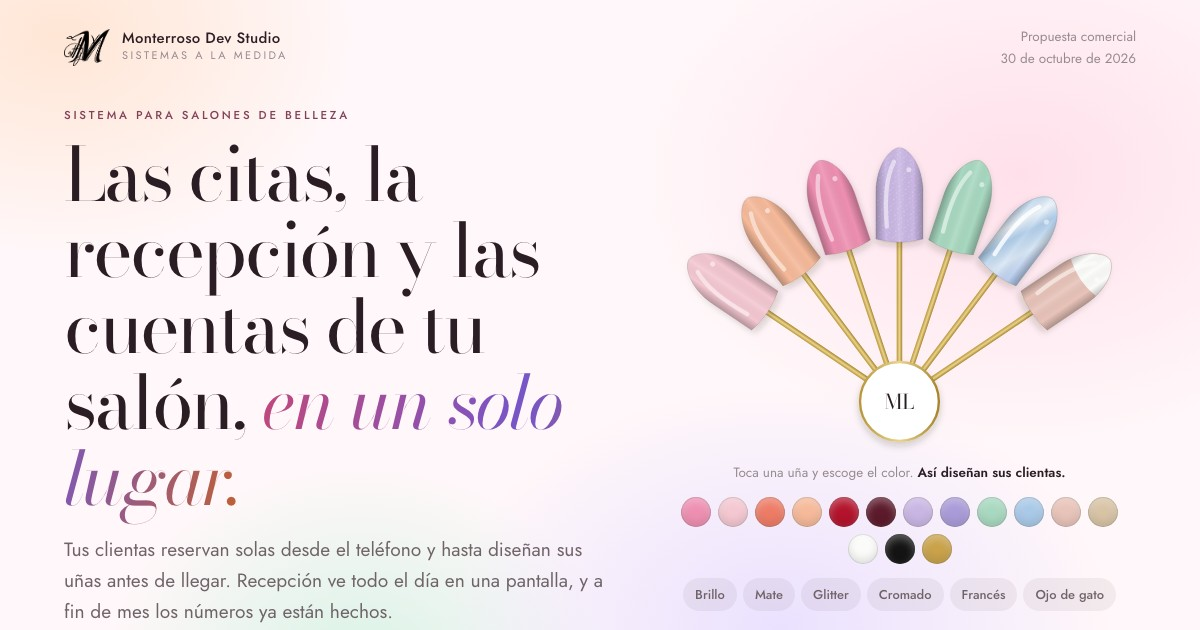
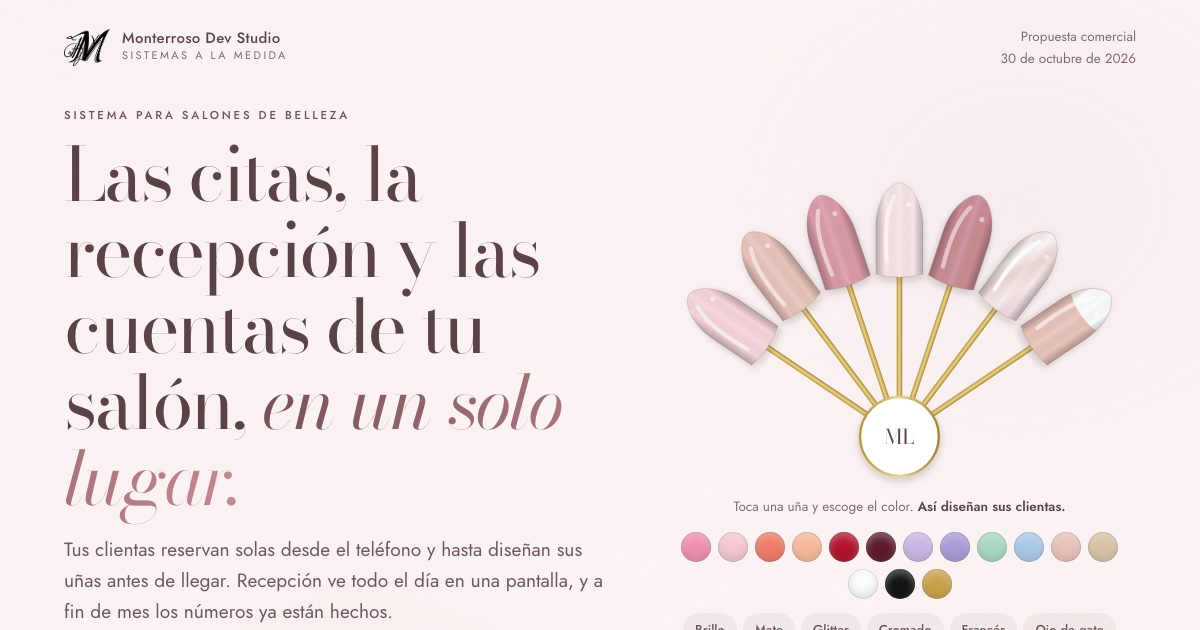
Propuesta en un solo tono rosa empolvado y letra más suave

diff --git a/Propuesta-Salon.html b/Propuesta-Salon.html
@@ -4,7 +4,7 @@
 <meta charset="utf-8">
 <meta name="viewport" content="width=device-width, initial-scale=1, viewport-fit=cover">
 <meta name="description" content="Reservas en línea, estudio de diseño de uñas, recepción en vivo y tarjeta de puntos en Apple y Google Wallet.">
-<meta name="theme-color" content="#FAF7F2">
+<meta name="theme-color" content="#FBF3F3">
 <meta name="robots" content="noindex">
 <meta property="og:type" content="website">
 <meta property="og:title" content="Sistema para salones de belleza · Monterroso Dev Studio">
@@ -24,7 +24,7 @@
 <title>Propuesta · Sistema para salón</title>
 <style>
 :root { --ease: cubic-bezier(0.23, 1, 0.32, 1); --r: 24px; --gutter: 20px; --sombra: 0 1px 2px rgba(40,26,20,.04), 0 12px 36px rgba(40,26,20,.07);
-  --t1: #FFE3EC; --t2: #ECE4FF; --t3: #DDF5E9; --t4: #FFE9DA; --i1: #C2477A; --i2: #7656C9; --i3: #2F8A62; --i4: #C2602F; }
+  --t1: #F6ECEE; --t2: #F9F2F3; --t3: #F4E7E9; --t4: #F8EFF0; --i1: #755055; --i2: #755055; --i3: #755055; --i4: #755055; }
 .sec.t1, .bloque.t1, .hito:nth-child(1), .dolor:nth-child(1), .paq.extra:nth-child(2) { --ink: var(--i1); }
 .sec.t2, .bloque.t2, .hito:nth-child(2), .dolor:nth-child(2) { --ink: var(--i2); }
 .sec.t3, .bloque.t3, .hito:nth-child(3), .dolor:nth-child(3), .paq.extra:nth-child(1) { --ink: var(--i3); }
@@ -40,7 +40,7 @@ h1, h2, h3, p { margin: 0; }
 b, strong { font-weight: 600; }
 .serif, h1, h2, h3 { font-family: var(--f-titulo); font-weight: 400; letter-spacing: -.015em; line-height: 1.06; }
 h1 em, h2 em, h3 em, .serif em { font-style: italic; color: var(--ink, var(--acento-texto)); }
-h1 em { background: linear-gradient(100deg, var(--i1), var(--i2) 55%, var(--i4)); -webkit-background-clip: text; background-clip: text; color: transparent; padding-right: .08em; }
+h1 em { background: linear-gradient(100deg, var(--i1), var(--acento)); -webkit-background-clip: text; background-clip: text; color: transparent; padding-right: .08em; }
 .eyebrow { font: 500 11.5px/1.2 var(--f-texto); letter-spacing: .24em; text-transform: uppercase; color: var(--acento-texto); margin-bottom: 14px; }
 .tx2 { color: var(--tinta2); } .tenue { color: var(--tenue); } .small { font-size: 13.5px; }
 .cont { max-width: 1160px; margin: 0 auto; padding: 0 var(--gutter); }
@@ -57,7 +57,7 @@ h3 { font-size: 24px; }
 .chip { display: inline-flex; align-items: center; gap: 6px; padding: 5px 13px; border-radius: 999px; background: var(--acento-suave); color: var(--acento-texto); font-size: 12.5px; font-weight: 600; letter-spacing: .02em; }
 .btn { display: inline-flex; align-items: center; justify-content: center; gap: 10px; min-height: 52px; padding: 0 26px; border-radius: 999px; font: 600 15.5px var(--f-texto); letter-spacing: .01em; text-decoration: none; border: 0; cursor: pointer; transition: transform .16s var(--ease), background-color .3s var(--ease), color .3s var(--ease); }
 .btn:active { transform: scale(.97); }
-.btn-a { background: linear-gradient(135deg, var(--acento), color-mix(in srgb, var(--acento) 62%, var(--i2))); color: var(--acento-sobre); }
+.btn-a { background: linear-gradient(135deg, var(--acento), color-mix(in srgb, var(--acento) 72%, #fff)); color: var(--acento-sobre); }
 .btn-p { background: var(--oscuro); color: var(--fondo); }
 .btn-l { background: transparent; color: inherit; box-shadow: inset 0 0 0 1px color-mix(in srgb, currentColor 30%, transparent); }
 @media (hover: hover) and (pointer: fine) { .btn-a:hover { background: color-mix(in srgb, var(--acento) 86%, #000); } .btn-p:hover { background: color-mix(in srgb, var(--oscuro) 85%, var(--acento)); } }
@@ -231,8 +231,8 @@ h3 { font-size: 24px; }
 .cable i { position: absolute; top: -4px; left: 0; width: 10px; height: 10px; border-radius: 50%; background: var(--acento); box-shadow: 0 0 0 6px color-mix(in srgb, var(--acento) 25%, transparent); animation: cable 2.6s var(--ease) infinite; }
 @keyframes cable { 0% { left: 0; opacity: 0; } 15% { opacity: 1; } 85% { opacity: 1; } 100% { left: 100%; opacity: 0; } }
 .cable.pulso i { animation-duration: .9s; }
-.en-vivo { position: absolute; left: 50%; top: -16px; transform: translateX(-50%); z-index: 4; display: inline-flex; gap: 8px; align-items: center; padding: 6px 14px; border-radius: 999px; background: var(--tarjeta); box-shadow: var(--sombra); font-size: 12px; font-weight: 600; color: #3F7D5C; }
-.en-vivo::before { content: ""; width: 8px; height: 8px; border-radius: 50%; background: #3F7D5C; animation: late 1.6s var(--ease) infinite; }
+.en-vivo { position: absolute; left: 50%; top: -16px; transform: translateX(-50%); z-index: 4; display: inline-flex; gap: 8px; align-items: center; padding: 6px 14px; border-radius: 999px; background: var(--tarjeta); box-shadow: var(--sombra); font-size: 12px; font-weight: 600; color: var(--acento-texto); }
+.en-vivo::before { content: ""; width: 8px; height: 8px; border-radius: 50%; background: var(--acento); animation: late 1.6s var(--ease) infinite; }
 @keyframes late { 50% { opacity: .3; } }
 .noti { position: absolute; left: 50%; top: 12px; z-index: 5; width: min(92%, 380px); transform: translate(-50%, -20px); opacity: 0; transition: opacity .4s var(--ease), transform .5s var(--ease); display: flex; gap: 10px; align-items: center; padding: 12px 14px; border-radius: 18px; background: rgba(255,255,255,.94); backdrop-filter: blur(16px); -webkit-backdrop-filter: blur(16px); box-shadow: 0 14px 34px rgba(0,0,0,.18); pointer-events: none; color: #1d1d1f; }
 .noti.on { opacity: 1; transform: translate(-50%, 0); }
@@ -249,7 +249,7 @@ th, td { padding: 16px 18px; text-align: left; border-bottom: 1px solid var(--li
 thead th { font-size: 11.5px; letter-spacing: .14em; text-transform: uppercase; color: var(--tenue); font-weight: 500; }
 th.nos, td.nos { background: var(--t1); font-weight: 600; color: var(--tinta); }
 tbody th { font-weight: 500; color: var(--tinta2); }
-.si { color: #3F7D5C; font-weight: 600; } .no { color: #B23A3A; }
+.si { color: var(--acento-texto); font-weight: 600; } .no { color: var(--tenue); }
 .nota { font-size: 12.5px; color: var(--tenue); margin-top: 12px; }
 
 /* calculadora */
@@ -296,7 +296,7 @@ input[type=range] { width: 100%; accent-color: var(--acento-texto); height: 28px
 .sw input { position: absolute; inset: 0; opacity: 0; margin: 0; cursor: pointer; width: 100%; height: 100%; }
 .sw span { position: absolute; inset: 0; border-radius: 99px; background: color-mix(in srgb, var(--tinta) 16%, transparent); transition: background-color .25s var(--ease); pointer-events: none; }
 .sw span::after { content: ""; position: absolute; top: 2px; left: 2px; width: 26px; height: 26px; border-radius: 50%; background: #fff; box-shadow: 0 2px 6px rgba(0,0,0,.2); transition: transform .25s var(--ease); }
-.sw input:checked + span { background: #3F7D5C; } .sw input:checked + span::after { transform: translateX(20px); }
+.sw input:checked + span { background: var(--acento-texto); } .sw input:checked + span::after { transform: translateX(20px); }
 .sw input:disabled + span { opacity: .6; } .sw input:focus-visible + span { outline: 2px solid var(--acento); outline-offset: 2px; }
 .segp { display: grid; grid-template-columns: repeat(3, 1fr); gap: 3px; padding: 4px; border-radius: 16px; background: rgba(255,255,255,.55); }
 .segp button { border: 0; background: transparent; padding: 11px 6px; border-radius: 12px; font: 600 15px var(--f-texto); color: var(--tinta2); cursor: pointer; transition: background-color .2s var(--ease), color .2s var(--ease), transform .16s var(--ease); }
@@ -406,17 +406,20 @@ function comboHTML() {
 
 /* ---------- paletas pastel ---------- */
 const mezcla = (a, b, k) => { const h = x => [1, 3, 5].map(i => parseInt(x.slice(i, i + 2), 16)); const A = h(a), B = h(b); return "#" + A.map((v, i) => Math.round(v + (B[i] - v) * k).toString(16).padStart(2, "0")).join(""); };
-function paleta(nombre, fondo, acento, nude, tinta, t, i) {
-  return { nombre, i: i || ["#C2477A", "#7656C9", "#2F8A62", "#C2602F"], c: { fondo, fondo2: mezcla(fondo, "#000000", .045), tarjeta: "#FFFFFF", tinta, tinta2: mezcla(tinta, fondo, .32), tenue: mezcla(tinta, fondo, .5), linea: mezcla(fondo, "#000000", .1), acento, acentoTexto: mezcla(acento, "#000000", .42), acentoSuave: mezcla(acento, "#FFFFFF", .8), acentoSobre: tinta, nude, oscuro: tinta }, t: t.map(x => x) };
+/* un solo tono por paleta: las secciones son el mismo color, más claro o más oscuro */
+const tonos = a => [.84, .9, .8, .88].map(k => mezcla(a, "#FFFFFF", k));
+const tintas = a => { const x = mezcla(a, "#000000", .42); return [x, x, x, x]; };
+function paleta(nombre, fondo, acento, nude, tinta) {
+  return { nombre, i: tintas(acento), c: { fondo, fondo2: mezcla(fondo, acento, .06), tarjeta: "#FFFFFF", tinta, tinta2: mezcla(tinta, fondo, .12), tenue: mezcla(tinta, fondo, .22), linea: mezcla(fondo, tinta, .1), acento, acentoTexto: mezcla(acento, "#000000", .42), acentoSuave: mezcla(acento, "#FFFFFF", .8), acentoSobre: mezcla(tinta, "#000000", .4), nude, oscuro: mezcla(tinta, "#000000", .2) }, t: tonos(acento) };
 }
 const PALETAS = [
-  Object.assign({ id: "pastel" }, paleta("Pastel vivo", "#FFF7F9", "#E2709A", "#FFD9E4", "#2B1D24", ["#FFE0EA", "#EAE1FF", "#D9F3E6", "#FFE6D5"], ["#C2477A", "#7656C9", "#2F8A62", "#C2602F"])),
-  { id: "marca", nombre: P.generico ? "Champán" : "Dorado " + (M.corto || "de la marca"), c: Object.assign({}, M.colores), t: ["#F8EEDF", "#F6E6EA", "#ECE6F5", "#FBF1E3"], i: ["#9A7B12", "#B2557A", "#7656C9", "#B5703A"] },
-  Object.assign({ id: "rosa" }, paleta("Rosa chicle", "#FFF6F8", "#EE7FA8", "#FFD3E1", "#2D1E25", ["#FFDCE7", "#FFE8EF", "#F3E2FF", "#FFEBDD"], ["#C23E73", "#B04A82", "#8A4CC2", "#C2602F"])),
-  Object.assign({ id: "lavanda" }, paleta("Lavanda", "#F9F6FF", "#9F86E8", "#E2D8FF", "#231E33", ["#E8DEFF", "#DCEBFF", "#FFE0EE", "#E1F5EA"], ["#6A4FC4", "#3E6FB8", "#C2477A", "#2F8A62"])),
-  Object.assign({ id: "menta" }, paleta("Menta", "#F4FCF8", "#5FC49A", "#CDEFDF", "#1C2B24", ["#D3F3E4", "#FFF2D6", "#DDEBFF", "#FFE2EC"], ["#24855A", "#B07A12", "#3E6FB8", "#C2477A"])),
-  Object.assign({ id: "durazno" }, paleta("Durazno", "#FFF8F3", "#F39A6E", "#FFD9C4", "#2E211B", ["#FFE1CF", "#FFDDE6", "#E4F3D9", "#EDE3FF"], ["#C25A2B", "#C2477A", "#4E8A2F", "#7656C9"])),
-  Object.assign({ id: "cielo" }, paleta("Cielo", "#F5F9FF", "#6FA6E6", "#D6E6FA", "#1C2533", ["#DCEAFF", "#EBE2FF", "#DDF4EA", "#FFE7DA"], ["#2F6BB8", "#7656C9", "#2F8A62", "#C2602F"]))
+  Object.assign({ id: "pastel" }, paleta("Rosa empolvado", "#FBF3F3", "#C98A93", "#F3E1E3", "#5B4247")),
+  { id: "marca", nombre: P.generico ? "Champán" : "Dorado " + (M.corto || "de la marca"), c: Object.assign({}, M.colores), t: tonos(M.colores.acento), i: tintas(M.colores.acento) },
+  Object.assign({ id: "nude" }, paleta("Nude rosado", "#FAF5F1", "#B98C7B", "#EFE2DA", "#5A463F")),
+  Object.assign({ id: "lavanda" }, paleta("Lavanda suave", "#F7F5FB", "#9C8CC4", "#E9E4F4", "#4E4560")),
+  Object.assign({ id: "durazno" }, paleta("Durazno suave", "#FDF6F1", "#D69A80", "#F6E3D8", "#5E4639")),
+  Object.assign({ id: "menta" }, paleta("Menta suave", "#F4FAF7", "#86B9A2", "#DDEEE6", "#3F5249")),
+  Object.assign({ id: "cielo" }, paleta("Cielo suave", "#F4F8FC", "#8AAFD3", "#DFEAF5", "#3F4A5C"))
 ];
 const CLAVE_TEMA = M.clave + ".tema";
 let TEMA = { id: "pastel" };
@@ -438,8 +441,8 @@ function aplicarTema(guardar) {
 }
 function paletasHTML() {
   const act = temaActual();
-  return PALETAS.map(p => `<button class="paleta ${TEMA.id === p.id ? "on" : ""}" data-pal="${p.id}"><span class="cols"><i style="background:${p.c.acento}"></i><i style="background:${p.t[0]}"></i><i style="background:${p.t[1]}"></i><i style="background:${p.c.fondo}"></i></span><b>${esc(p.nombre)}</b><small>${p.id === "marca" ? "La de su logo" : p.id === "pastel" ? "La que proponemos" : "Pastel"}</small></button>`).join("")
-    + `<button class="paleta ${TEMA.id === "propio" ? "on" : ""}" data-pal="propio"><span class="cols"><i style="background:conic-gradient(#F5A3B5,#B9A6E0,#8FC9AE,#F2C08E,#F5A3B5)"></i></span><b>A tu gusto</b><small>Escoge cada color</small></button>`
+  return PALETAS.map(p => `<button class="paleta ${TEMA.id === p.id ? "on" : ""}" data-pal="${p.id}"><span class="cols"><i style="background:${p.c.acento}"></i><i style="background:${p.t[0]}"></i><i style="background:${p.c.acentoTexto}"></i><i style="background:${p.c.fondo}"></i></span><b>${esc(p.nombre)}</b><small>${p.id === "marca" ? "La de su logo" : p.id === "pastel" ? "La que proponemos" : "Pastel"}</small></button>`).join("")
+    + `<button class="paleta ${TEMA.id === "propio" ? "on" : ""}" data-pal="propio"><span class="cols"><i style="background:conic-gradient(#F3E1E3,#C98A93,#E8C3B9,#F3E1E3)"></i></span><b>A tu gusto</b><small>Escoge cada color</small></button>`
     + `<div class="editor" style="grid-column:1/-1"><div class="editor-f">${[["acento", "Color principal"], ["fondo", "Fondo"], ["nude", "Detalle"]].map(([k, n]) => `<label class="campo-color" style="--c:${act.c[k]}"><i></i>${n}<input type="color" data-color="${k}" value="${act.c[k]}" aria-label="${n}"></label>`).join("")}</div>
       <p class="tenue small">Se aplica en vivo a esta propuesta y a la demo: la página del salón, la reserva, la recepción y la tarjeta de puntos.</p></div>`;
 }
@@ -448,7 +451,7 @@ function paletasHTML() {
 const TONOS = [["Rosa chicle", "#EE8FB1"], ["Rosa ballet", "#F4C7D1"], ["Coral", "#EE7B66"], ["Durazno", "#F6B99A"], ["Rojo clásico", "#B3132C"], ["Vino", "#5C1A2B"], ["Lila", "#C9B6E4"], ["Lavanda", "#A99BD8"], ["Menta", "#A8D8C0"], ["Cielo", "#A9C9E8"], ["Nude rosado", "#E8C3B9"], ["Champán", "#D8C3A5"], ["Blanco", "#FBFBF9"], ["Negro", "#141414"], ["Oro", "#C9A24A"]];
 const ACAB = [["brillo", "Brillo"], ["mate", "Mate"], ["glitter", "Glitter"], ["cromado", "Cromado"], ["frances", "Francés"], ["ojo", "Ojo de gato"]];
 const ANG = [-56, -37, -18.5, 0, 18.5, 37, 56];
-const UN = ["#F4C7D1", "#F6B99A", "#EE8FB1", "#C9B6E4", "#A8D8C0", "#A9C9E8", "#E8C3B9"].map((c, i) => ({ c, a: i === 3 ? "glitter" : i === 6 ? "frances" : i === 5 ? "cromado" : "brillo" }));
+const UN = ["#F4D3D9", "#E8C3B9", "#D99AA5", "#F7E3E6", "#C98A93", "#EBD3CF", "#E8C3B9"].map((c, i) => ({ c, a: i === 3 ? "glitter" : i === 6 ? "frances" : i === 5 ? "cromado" : "brillo" }));
 let SEL = null;
 const angAct = ANG.map(() => 0), angObj = ANG.map(() => 0), alzAct = ANG.map(() => 0);
 const NH = 116, PUNTA = `M-30 0 L-30-58 C-30-95-11-${NH} 0-${NH} C11-${NH} 30-95 30-58 L30 0 Q0 8-30 0Z`;
@@ -760,9 +763,8 @@ $("paletas").addEventListener("input", e => {
   const k = e.target.dataset.color; if (!k) return;
   if (TEMA.id !== "propio") { const base = temaActual(); TEMA = { id: "propio", nombre: "A tu gusto", c: Object.assign({}, base.c), t: base.t.slice(), i: (base.i || []).slice() }; }
   TEMA.c[k] = e.target.value;
-  if (k === "acento") { TEMA.c.acentoTexto = mezcla(e.target.value, "#000000", .42); TEMA.c.acentoSuave = mezcla(e.target.value, "#FFFFFF", .8); TEMA.t[0] = mezcla(e.target.value, "#FFFFFF", .84); }
+  if (k === "acento") { TEMA.c.acentoTexto = mezcla(e.target.value, "#000000", .42); TEMA.c.acentoSuave = mezcla(e.target.value, "#FFFFFF", .8); TEMA.t = tonos(e.target.value); TEMA.i = tintas(e.target.value); }
   if (k === "fondo") { TEMA.c.fondo2 = mezcla(e.target.value, "#000000", .045); TEMA.c.linea = mezcla(e.target.value, "#000000", .1); }
-  if (k === "nude") TEMA.t[1] = mezcla(e.target.value, "#FFFFFF", .5);
   e.target.closest(".campo-color").style.setProperty("--c", e.target.value);
   aplicarTema(true);
   document.querySelectorAll(".paleta").forEach(x => x.classList.toggle("on", x.dataset.pal === "propio"));
